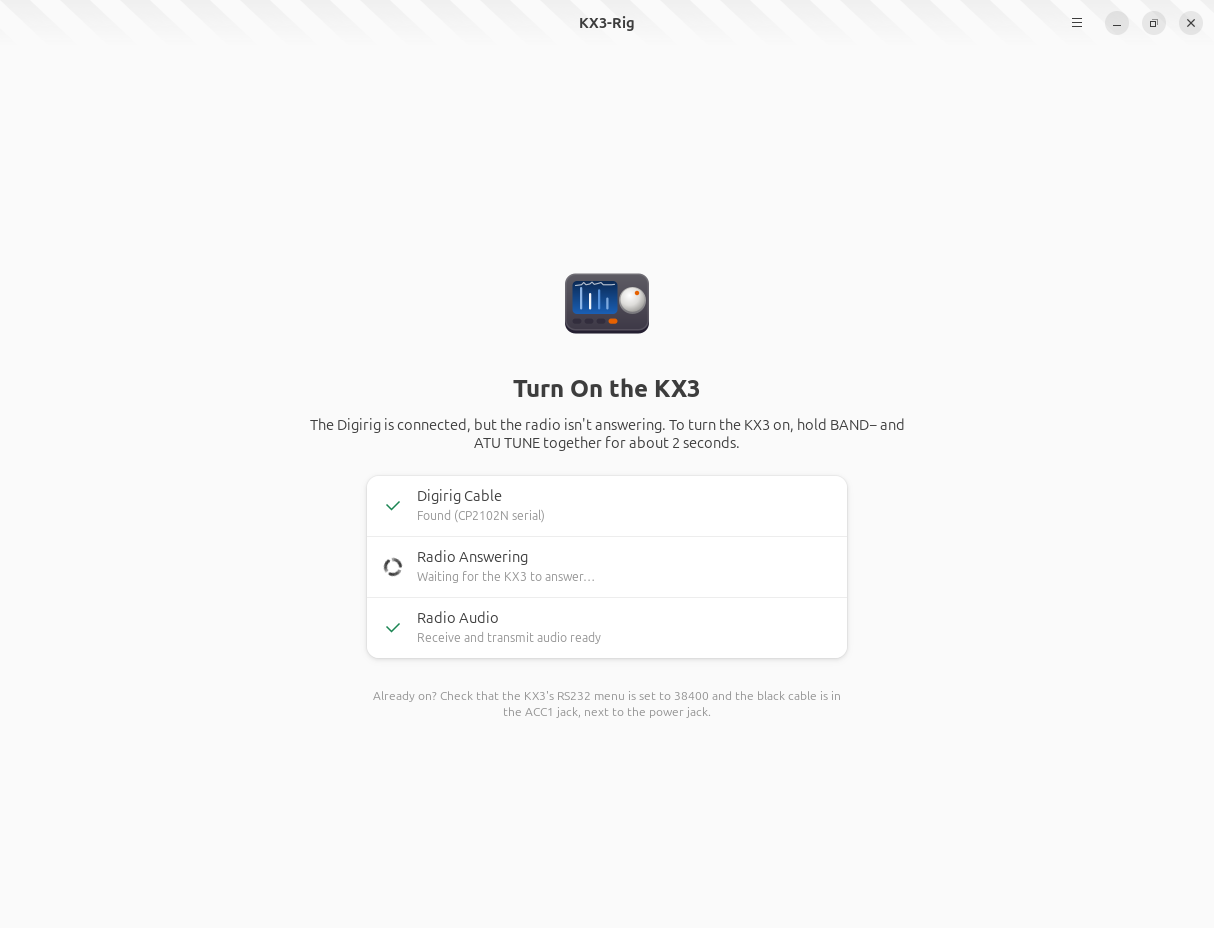
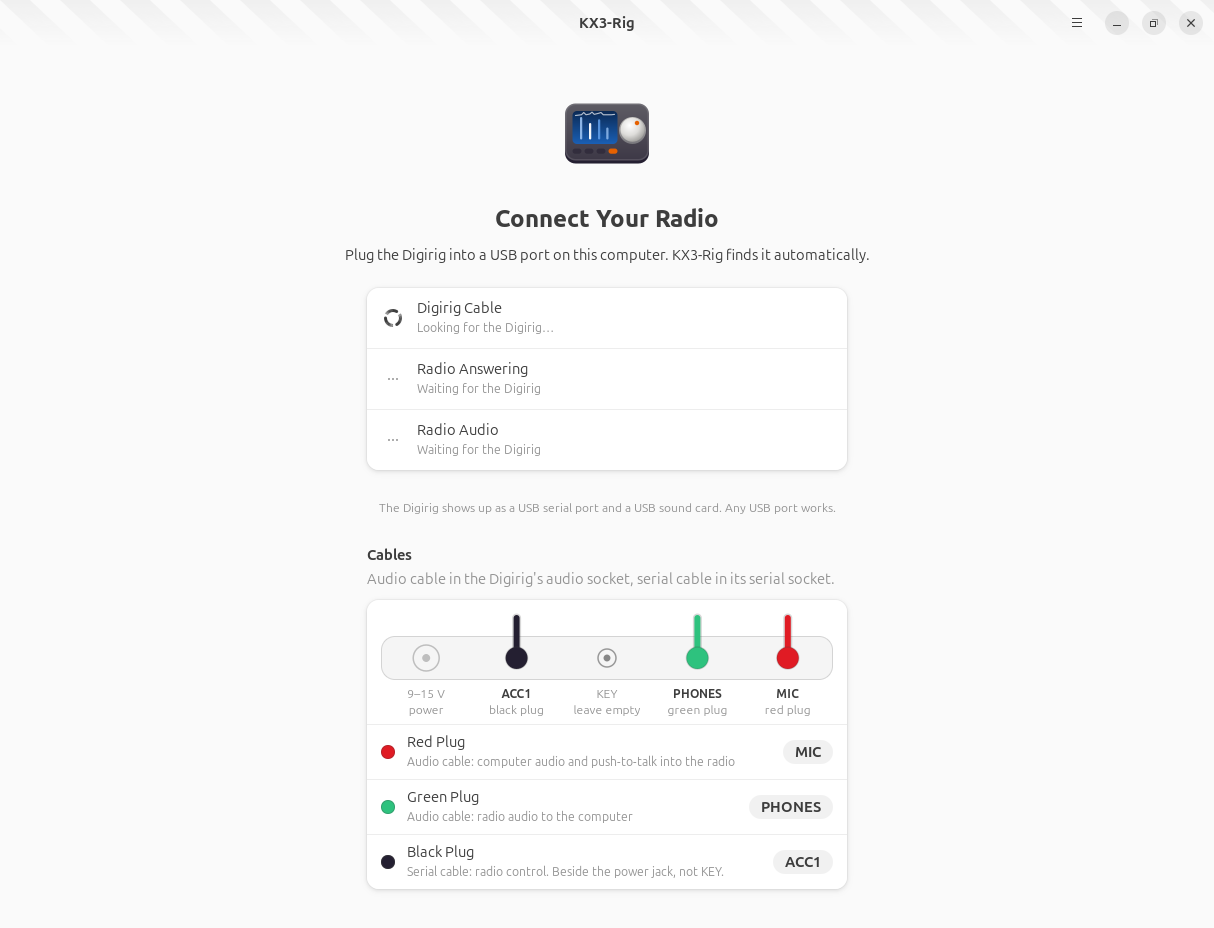
Add a cable guide to the Connect Your Radio page
The connect page now shows which Digirig KX cable plug goes in which KX3
jack: a drawing of the KX3's left-side jack row (power, ACC1, KEY,
PHONES, MIC) with the plugs in place, and one row per plug (red to MIC,
green to PHONES, black serial to ACC1). Drawn with GtkSnapshot so no
cairo bindings are needed. Sources added to docs/references.md.

diff --git a/kx3rig/ui/style.css b/kx3rig/ui/style.css
@@ -76,6 +76,18 @@ button.talk.on-air { background-color: @error_bg_color; color: @error_fg_color; 
 /* Connect page checklist */
 .checklist row { min-height: 56px; }
 
+/* Connect page cable guide: Digirig KX cable plug colors (libadwaita palette red 3, green 4, dark 4) */
+.plug-dot {
+  min-width: 14px;
+  min-height: 14px;
+  border-radius: 9999px;
+  box-shadow: inset 0 0 0 1px alpha(currentColor, 0.25);
+}
+.plug-dot.red { background-color: #e01b24; }
+.plug-dot.green { background-color: #2ec27e; }
+.plug-dot.black { background-color: #241f31; box-shadow: inset 0 0 0 1px alpha(currentColor, 0.5); }
+.tag.jack { font-weight: 700; }
+
 /* Cycle progress */
 progressbar.cycle trough, progressbar.cycle progress { min-height: 4px; border-radius: 9999px; }
 progressbar.cycle.tx progress { background-color: @error_bg_color; }

diff --git a/kx3rig/ui/connect_page.py b/kx3rig/ui/connect_page.py
@@ -2,17 +2,20 @@
 
 A status page with a live checklist (Bottles' "creating bottle" steps pattern):
 Digirig cable, radio answering, radio audio. Detection runs continuously, so a
-correctly cabled, powered-on radio needs no clicks at all.
+correctly cabled, powered-on radio needs no clicks at all. Below it, a cable
+guide shows which plug goes in which KX3 jack.
 """
 
 from __future__ import annotations
+
 
 import gi
 
 gi.require_version("Gtk", "4.0")
 gi.require_version("Gdk", "4.0")
+gi.require_version("Gsk", "4.0")
 gi.require_version("Adw", "1")
-from gi.repository import Adw, Gdk, Gtk  # noqa: E402
+from gi.repository import Adw, Gdk, Graphene, Gsk, Gtk, Pango  # noqa: E402
 
 from ..radio import Link, RadioState  # noqa: E402
 
@@ -44,6 +47,24 @@ COPY = {
         "A radio answered, but it reports a different model. KX3-Rig only supports the Elecraft KX3.",
     ),
 }
+
+# Digirig's Elecraft KX cable set: one audio cable split into red (MIC) and
+# green (PHONES) plugs, and a black serial cable for ACC1 (Digirig KX cable
+# product page). The KX3's left-side top row, left to right, is 9-15 VDC,
+# ACC1, KEY, PHONES, MIC (OM p.9). See docs/references.md, "Cabling".
+PLUG_RGB = {"red": (0xE0, 0x1B, 0x24), "green": (0x2E, 0xC2, 0x7E), "black": (0x24, 0x1F, 0x31)}
+JACK_ROW = (
+    ("9–15 V", None, "power"),
+    ("ACC1", "black", "black plug"),
+    ("KEY", None, "leave empty"),
+    ("PHONES", "green", "green plug"),
+    ("MIC", "red", "red plug"),
+)
+PLUGS = (
+    ("red", "Red Plug", "MIC", "Audio cable: computer audio and push-to-talk into the radio"),
+    ("green", "Green Plug", "PHONES", "Audio cable: radio audio to the computer"),
+    ("black", "Black Plug", "ACC1", "Serial cable: radio control. Beside the power jack, not KEY."),
+)
 
 
 class Step(Adw.ActionRow):
@@ -112,6 +133,8 @@ class ConnectPage(Gtk.Box):
         self.help.add_css_class("dim-label")
         box.append(self.help)
 
+        box.append(_cable_guide())
+
         self.status.set_child(clamp)
         self.append(self.status)
 
@@ -158,7 +181,7 @@ class ConnectPage(Gtk.Box):
 
         if st.link is Link.NO_REPLY:
             self.help.set_label("Already on? Check that the KX3's RS232 menu is set to 38400 and the "
-                                "black cable is in the ACC1 jack, next to the power jack.")
+                                "black plug is in ACC1, not KEY.")
         elif st.link is Link.NO_INTERFACE:
             self.help.set_label("The Digirig shows up as a USB serial port and a USB sound card. "
                                 "Any USB port works.")
@@ -170,3 +193,120 @@ def _short(name: str) -> str:
     if "CP2102" in name:
         return "CP2102N serial"
     return name
+
+
+def _cable_guide() -> Gtk.Widget:
+    """The jack diagram and one row per plug, in a single boxed list."""
+    group = Adw.PreferencesGroup(
+        title="Cables",
+        description="Audio cable in the Digirig's audio socket, serial cable in its serial socket.",
+    )
+    diagram = Adw.PreferencesRow(activatable=False)
+    diagram.set_child(JackPanel())
+    group.add(diagram)
+    for color, title, jack, subtitle in PLUGS:
+        row = Adw.ActionRow(title=title, subtitle=subtitle)
+        dot = Gtk.Box(valign=Gtk.Align.CENTER, css_classes=["plug-dot", color])
+        row.add_prefix(dot)
+        tag = Gtk.Label(label=jack, valign=Gtk.Align.CENTER, css_classes=["tag", "jack"])
+        row.add_suffix(tag)
+        group.add(row)
+    return group
+
+
+class JackPanel(Gtk.Widget):
+    """The KX3's left-side jack row with the Digirig plugs drawn in place."""
+
+    __gtype_name__ = "KX3JackPanel"
+    HEIGHT = 96
+    PANEL_TOP, PANEL_H = 22, 44
+
+    def __init__(self):
+        super().__init__(accessible_role=Gtk.AccessibleRole.IMG, css_classes=["caption"])
+        self.set_size_request(-1, self.HEIGHT)
+        for side in ("top", "bottom", "start", "end"):
+            getattr(self, f"set_margin_{side}")(12)
+        self.update_property(
+            [Gtk.AccessibleProperty.LABEL],
+            ["KX3 left side: black plug in ACC1, KEY empty, green plug in PHONES, red plug in MIC"],
+        )
+        Adw.StyleManager.get_default().connect("notify::dark", lambda *_: self.queue_draw())
+
+    def do_snapshot(self, snap: Gtk.Snapshot) -> None:
+        w = self.get_width()
+        if w <= 0:
+            return
+        fg = self.get_color()
+        dark = Adw.StyleManager.get_default().get_dark()
+
+        def ink(alpha: float) -> Gdk.RGBA:
+            c = fg.copy()
+            c.alpha = fg.alpha * alpha
+            return c
+
+        top, ph = self.PANEL_TOP, self.PANEL_H
+        cy = top + ph / 2
+        slot = w / len(JACK_ROW)
+
+        # Side panel of the radio.
+        panel = Gsk.RoundedRect()
+        panel.init_from_rect(Graphene.Rect().init(0, top, w, ph), 14)
+        snap.push_rounded_clip(panel)
+        snap.append_color(ink(0.05), panel.bounds)
+        snap.pop()
+        snap.append_border(panel, [1] * 4, [ink(0.18)] * 4)
+
+        layout = self.create_pango_layout("")
+        for i, (jack, plug, note) in enumerate(JACK_ROW):
+            cx = slot * (i + 0.5)
+            if plug:
+                color = Gdk.RGBA()
+                color.red, color.green, color.blue = (c / 255 for c in PLUG_RGB[plug])
+                color.alpha = 1.0
+                edge = ink(0.5 if dark and plug == "black" else 0.2)
+                builder = Gsk.PathBuilder.new()
+                builder.move_to(cx, 4)
+                builder.line_to(cx, cy)
+                cable = builder.to_path()
+                for width, c in ((9, edge), (6, color)):
+                    stroke = Gsk.Stroke.new(width)
+                    stroke.set_line_cap(Gsk.LineCap.ROUND)
+                    snap.append_stroke(cable, stroke, c)
+                body = _circle(cx, cy, 11)
+                snap.append_fill(body, Gsk.FillRule.WINDING, color)
+                snap.append_stroke(body, Gsk.Stroke.new(1.5), edge)
+            elif note == "power":
+                snap.append_stroke(_circle(cx, cy, 13), Gsk.Stroke.new(1.5), ink(0.3))
+                snap.append_fill(_circle(cx, cy, 4), Gsk.FillRule.WINDING, ink(0.3))
+            else:
+                snap.append_stroke(_circle(cx, cy, 9), Gsk.Stroke.new(1.5), ink(0.5))
+                snap.append_fill(_circle(cx, cy, 3.5), Gsk.FillRule.WINDING, ink(0.6))
+
+            y = top + ph + 6
+            y = _text(snap, layout, jack, cx, y, ink(1.0 if plug else 0.55), bold=bool(plug))
+            _text(snap, layout, note, cx, y, ink(0.55))
+
+
+def _circle(cx: float, cy: float, r: float) -> Gsk.Path:
+    builder = Gsk.PathBuilder.new()
+    center = Graphene.Point()
+    center.x, center.y = cx, cy
+    builder.add_circle(center, r)
+    return builder.to_path()
+
+
+def _text(snap, layout, text, cx, y, color, bold=False) -> float:
+    """Draw text centered on cx with its top at y; returns the y below it."""
+    attrs = Pango.AttrList()
+    if bold:
+        attrs.insert(Pango.attr_weight_new(Pango.Weight.BOLD))
+    layout.set_attributes(attrs)
+    layout.set_text(text, -1)
+    tw, th = layout.get_pixel_size()
+    snap.save()
+    point = Graphene.Point()
+    point.x, point.y = cx - tw / 2, y
+    snap.translate(point)
+    snap.append_layout(layout, color)
+    snap.restore()
+    return y + th

diff --git a/README.md b/README.md
@@ -34,7 +34,8 @@ It is built for one station today: an Elecraft KX3 connected to an Ubuntu laptop
 - [WSJT-X](https://wsjt.sourceforge.io/wsjtx.html) installed, for FT8 (tested with 3.0.2; KX3-Rig uses
   its `jt9` decoder and `ft8code` encoder)
 - An Elecraft KX3 with its `RS232` menu set to **38400**, a Digirig Mobile (RS-232 build) and
-  the Digirig Elecraft KX cable set
+  the Digirig Elecraft KX cable set. Plugs go in the KX3's left-side jacks: red in **MIC**, green
+  in **PHONES**, black (serial) in **ACC1**; the Connect Your Radio page shows the same guide
 - Your account in the `dialout` group, and ModemManager masked (it grabs USB serial ports):
 
   ```bash
@@ -61,9 +62,9 @@ including stations that answer you.
 
 1. **Connect.** Plug the Digirig into any USB port and turn on the KX3 (hold BAND− and
    ATU TUNE for about 2 seconds). Open KX3-Rig. It finds the Digirig and the radio by itself
-   and shows a checklist until everything answers.
+   and shows a checklist until everything answers, with a guide to which plug goes in which jack.
 
-   ![Waiting for the radio](docs/screenshots/connect.png)
+   ![Waiting for the radio, with the cable guide](docs/screenshots/connect.png)
 
 2. **Tune.** Pick a band, pick a mode, and tune. Turn up the volume at the bottom left to hear
    the radio. The **Radio audio** meter at the bottom right should sit in the green; if it

diff --git a/docs/references.md b/docs/references.md
@@ -65,6 +65,18 @@ Source keys:
   `Serial(port)` keys the radio. KX3-Rig builds the port unopened, clears RTS/DTR, then opens.
   **UNVERIFIED**: whether the cp210x driver pulses RTS during open; test into a dummy load.
 
+## Cabling (ui/connect_page.py)
+
+- Digirig Elecraft KX cable set (https://digirig.net/product/elecraft-kx-cables/): an audio cable
+  from the Digirig's audio socket, split into a **red** plug (TX audio and PTT) for the KX3
+  **MIC** jack and a **green** plug (RX audio) for **PHONES**; and a **black** serial cable from
+  the Digirig's serial socket to **ACC1** (RS-232 CAT). The set needs a Digirig Mobile rev 1.6+
+  configured for RS-232.
+- KX3 left-side top row, left to right: `9-15 VDC` power barrel, **ACC1**, KEY, PHONES, MIC
+  (OM p.9). ACC1 is the first 3.5 mm jack beside the power barrel; KEY sits next to it and is
+  easy to mistake for it. Bottom row: ACC2, RX I/Q.
+- Both points were confirmed on this station's KX3 during the earlier bring-up.
+
 ## Receive and transmit audio (audio.py, controller.py)
 
 - Plugging into PHONES disables the internal speaker and its amplifier (OM p.5), so the operator
